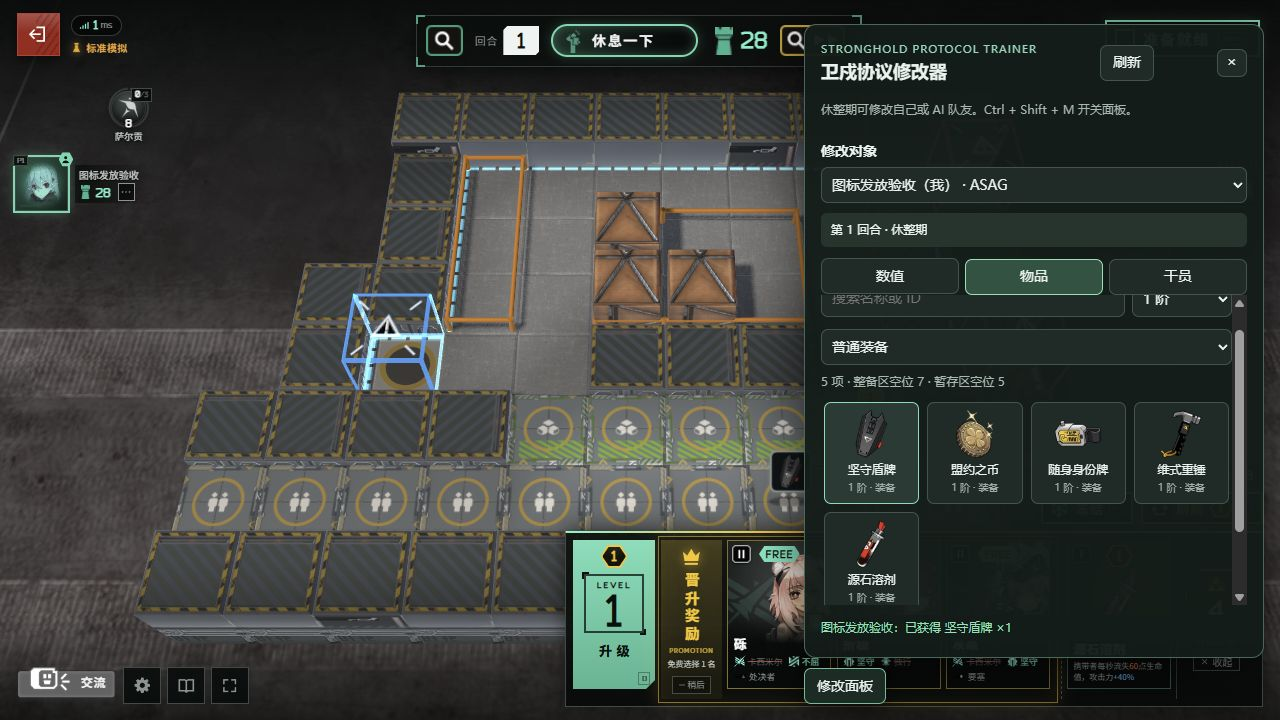
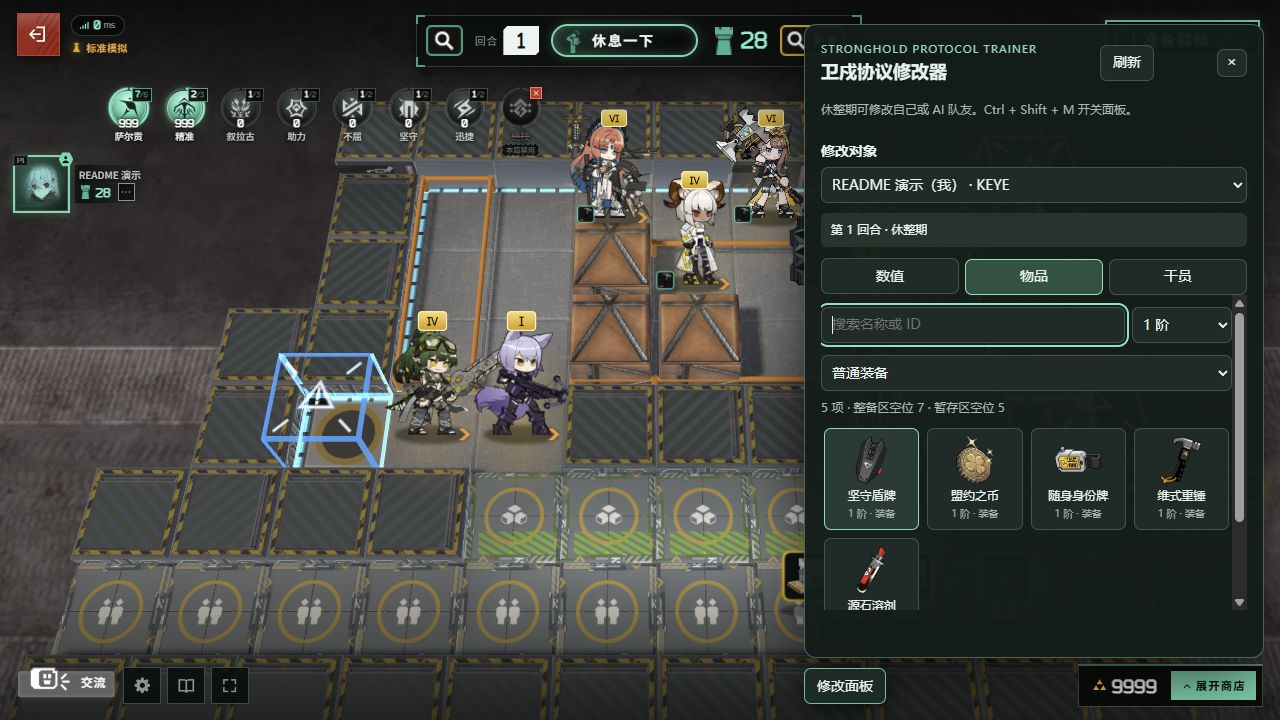
docs: add illustrated setup and real trainer showcases

diff --git a/README.md b/README.md
@@ -1,70 +1,231 @@
 # Stronghold Protocol Trainer｜卫戍协议本地修改器
 
-为 [卫戍协议：盟约 / Stronghold Protocol](https://github.com/sganggs/Stronghold-Protocol) 制作的独立本地修改器。输入本体目录即可安装，用图标列表免费获得物品和本局未被禁用的干员。
+**想试一套成型阵容，又不想反复刷商店？** 给 [卫戍协议：盟约 / Stronghold Protocol](https://github.com/sganggs/Stronghold-Protocol) 加一个本地修改面板：设置金币、调整盟约层数，点击图标获得物品和本局可用干员。
 
-[下载安装包](https://github.com/Doya16/Stronghold-Protocol-Trainer/releases/latest) · [反馈问题](https://github.com/Doya16/Stronghold-Protocol-Trainer/issues) · [自动化测试](https://github.com/Doya16/Stronghold-Protocol-Trainer/actions)
+[下载安装包](https://github.com/Doya16/Stronghold-Protocol-Trainer/releases/latest) · [图文安装教程](#install) · [功能实机展示](#features) · [网上阵容参考](#community) · [反馈问题](https://github.com/Doya16/Stronghold-Protocol-Trainer/issues)
 
-**非官方同人扩展，仅供本地测试及个人非商业娱乐。游戏素材版权归鹰角网络 / Yostar 及相应权利人。** 本项目不打包本体与游戏素材，声明见 [NOTICE.md](NOTICE.md)。
+![本地演示：8 名干员已部署，萨尔贡与精准均为 999 层，当前金币 9999](docs/trainer-showcase.jpg)
 
-## 功能
+*本地实机演示：8 名干员已部署，萨尔贡与精准均设为 999 层，金币为 9999。这是使用修改器提前搭建的效果展示局，不是正常运营通关记录。*
 
-- 设置当前金币、增加 100 / 1000 金币。
-- 设置可叠层盟约的层数，范围 0–999；禁用盟约不可修改。
-- 物品图标列表：点击获得一件，支持名称 / ID / 描述搜索、阶位和类型筛选。包含普通装备、强化装备、道具。
-- 干员图标列表：按**当前对局**过滤被 ban 的干员，点击获得一名初始干员；不受商店等级限制。
-- 使用游戏原有获得流程，保留获得效果、自动合成、干员精锐化及共享卡池计数；金币不会因发放而扣除。
-- 可选择自己或本机 AI 队友。仅休整期、存活且未准备的玩家可操作。
-- 独立浏览器窗口；关闭时停止本次服务并清除本次浏览器配置、缓存及临时数据。
-- 安装 / 启用、停用、卸载。扩展存放于独立目录，不修改本体源文件。
+**非官方同人扩展，仅供本地测试及个人非商业娱乐。禁止利用游戏素材盈利。** 游戏素材版权归鹰角网络 / Yostar 及相应权利人；本项目不包含本体和素材包，声明见 [NOTICE.md](NOTICE.md)。
 
-![物品列表与获得结果](docs/trainer-items.jpg)
+| 可以做什么 | 怎么操作 |
+| --- | --- |
+| 设置金币 | 输入 0–99999，或点击 +100 / +1000 |
+| 调整盟约叠层 | 选择本局允许的盟约，设置 0–999 层 |
+| 免费获得物品 | 搜索、筛选后点击图标，每次获得一件 |
+| 免费获得干员 | 列表自动排除本局被 ban 的干员，每次获得一名 |
+| 修改自己 / AI 队友 | 在“修改对象”下拉框切换 |
+| 一键启动与关闭 | 安装后使用本体目录内的专用快捷方式 |
 
-![本局可获得干员列表](docs/trainer-operators.jpg)
+<a id="install"></a>
+## 图文安装教程
 
-## 快速开始（Windows）
+### 第 1 步：准备本体和修改器
 
-1. 先下载本体 **v0.1.3 完整包**，按其 README 完成快速开始，确认原版能启动。
-2. 安装 **Node.js 22 或 24**，并准备 Chrome 或 Edge。本体自带 `runtime/node.exe` 时也可使用。
-3. 从本仓库 [Releases](https://github.com/Doya16/Stronghold-Protocol-Trainer/releases/latest) 下载 `Stronghold-Protocol-Trainer-v0.2.0-win-x64.zip`，完整解压。
-4. 双击 `Stronghold-Protocol-Trainer-Setup.exe`，输入或浏览选择**本体根目录**，其中应有 `package.json`、`server`、`public` 等。
-5. 点击 **安装 / 启用**，再点击 **启动游戏**。以后直接双击本体目录里的 **卫戍协议本地修改器 - 启动.lnk** 即可。
-6. 开局进入休整期后，点击右下角“修改面板”，或按 **Ctrl + Shift + M**。先确认修改对象，再选择数值 / 物品 / 干员。
+| 需要准备 | 下载 / 检查方式 |
+| --- | --- |
+| Windows x64 | 当前图形安装器支持的系统 |
+| 本体 **v0.1.3 完整包** | [本体 v0.1.3 发布页](https://github.com/sganggs/Stronghold-Protocol/releases/tag/v0.1.3)，下载 `Stronghold-Protocol-v0.1.3.zip` |
+| Node.js **22 或 24** | [Node.js 官方下载](https://nodejs.org/zh-cn/download)；本体目录已有 `runtime/node.exe` 且版本符合要求时也可使用 |
+| Chrome 或 Edge | 用于启动独立游戏窗口 |
+| 修改器安装包 | [修改器 Releases](https://github.com/Doya16/Stronghold-Protocol-Trainer/releases/latest)，下载 `Stronghold-Protocol-Trainer-v0.2.0-win-x64.zip` |
 
-![安装器](docs/installer.png)
+打开修改器发布页，找到页面下方 **Assets**，选择名称以 **`win-x64.zip`** 结尾的附件。`Source code (zip)` 和 `Source code (tar.gz)` 是开发用源码，不是可以双击安装的成品。
 
-当前支持 Windows x64、本体 v0.1.3。其他本体版本会提示不兼容，以免将修改写入不同结构的游戏状态。安装器不自动下载本体、依赖或素材；缺失时会指出需要先完成的步骤。不需要管理员权限，但本体目录必须可写。
+<details>
+<summary>查看下载位置截图（Assets 在页面底部）</summary>
 
-## 游戏规则与限制
+![GitHub 发布页：下载 Assets 中的 win-x64.zip](docs/step-01-download.jpg)
 
-- 图标每次点击发放**一件**。优先放入整备区，满时使用暂存区；两处全满且无法合成时拒绝发放并提示，不会静默丢失这次请求的物品。
-- 暂存区仍遵循本体的清理规则；已有同类装备或干员可能立即自动合成，因此格子数量不一定增加。
-- 干员列表只列出本局可用的常规初始干员，不包含召唤物、隐藏 / DIY 干员和直接精锐形态。连续获得会按原规则精锐化。卡池耗尽时按本体效果赠送的规则获得，不虚增可返还的卡池份数。
-- 设置盟约层数不会自动满足阵容激活条件，也不会补发历史叠层奖励。
-- 本体回合收入、装备使用条件和上限保持原规则。点过“准备就绪”后，先取消准备再修改。
-- 服务只监听 `127.0.0.1`，面板用于本机游戏，不用于加入他人服务器或对外开服。
-- 当前局、代号和浏览器设置均为临时内容，关闭后不保留存档。
+</details>
 
-## 更新、停用与卸载
+### 第 2 步：完整解压，确认本体能运行
 
-更新前先结束当前对局并关闭修改器游戏，再运行新版安装器，选择同一本体目录后点击“安装 / 启用”。安装器会阻止覆盖正在运行的扩展。
+把两个 ZIP 分别完整解压到普通文件夹；不要直接在压缩包预览里运行 EXE。建议使用短路径、可写目录，例如 `D:\Games\Stronghold-Protocol`，避免放在 OneDrive 同步目录中。
 
-“停用”会禁止修改器入口启动；再次“安装 / 启用”即可恢复。原本体的启动方式始终可用，原版入口不会加载本扩展。请注意区分原版快捷方式和修改器快捷方式。
+先阅读**本体自己的 `README.md` → 快速开始 → 整合包**，完成 Node.js 环境准备，并通过本体的 `scripts\start-windows.bat` 确认原版能打开。完整包已包含本体依赖与素材；修改器不会替你补下载这些内容。
 
-“卸载扩展”移除 `sp-local-tools` 目录和属于本扩展的两枚快捷方式，保留本体文件。若目录里有用户额外存放的文件，会保留并要求先移出，不直接删除。
+**安装器要选择的是包含 `package.json` 的那一层。** 如果解压后套了两层同名文件夹，请继续进入内层。
 
-正常关闭游戏窗口会清理 `sp-local-tools/runtime-data`。需要手动关闭时可使用 **卫戍协议本地修改器 - 关闭并清理.lnk**。强制断电等异常退出留下的临时目录会在下次启动时清理。这里的清理范围是本扩展管理的进程和临时目录，不包含 Windows 自身日志、系统预取等操作系统记录。
+```text
+D:\Games\Stronghold-Protocol\       ← 安装器应填写这一层
+├─ package.json
+├─ README.md
+├─ server\
+├─ public\
+├─ data\
+├─ node_modules\
+└─ scripts\
+
+D:\Downloads\Stronghold-Protocol-Trainer-v0.2.0-win-x64\
+└─ Stronghold-Protocol-Trainer-Setup.exe   ← 双击这个安装器
+```
+
+### 第 3 步：选目录，安装 / 启用
+
+1. 关闭之前用于检查的游戏和服务窗口。
+2. 双击 **`Stronghold-Protocol-Trainer-Setup.exe`**。
+3. 粘贴本体根目录，或点 **浏览…** 选择它。下图路径是示例，请换成你自己的实际路径。
+4. 点击 **安装 / 启用**，等待下方状态区提示成功，再点击 **启动游戏**。
+
+![安装器已填写本体根目录，下方依次为安装启用、启动游戏、停用和卸载](docs/step-03-installer.png)
+
+安装成功后，本体目录中会新增：
+
+```text
+sp-local-tools\                         ← 修改器文件
+卫戍协议本地修改器 - 启动.lnk            ← 以后双击它进入
+卫戍协议本地修改器 - 关闭并清理.lnk      ← 手动结束本次游戏并清理
+```
+
+无需管理员权限，但目录必须可写。安装器会检查本体版本、Node.js、浏览器和必要文件；提示缺失时，按提示补齐后重新安装即可。
+
+### 第 4 步：从修改器入口打开游戏
+
+第一次可直接点安装器的 **启动游戏**；以后双击本体目录里的 **卫戍协议本地修改器 - 启动** 快捷方式。
+
+看到下图登录页后，输入博士代号，点击 **开始**。页面右下角出现“修改面板”，说明这次加载了扩展。
+
+![启动成功：输入博士代号，右下角可见修改面板入口](docs/step-04-login.jpg)
+
+### 第 5 步：开局，进入休整期
+
+初次体验可以选择 **独立模拟 → 标准模拟 → 开始独立模拟**。然后依次点击 **开始模拟 → 准备就绪 → 确认选择**，等画面顶部进入“休息一下”。
+
+![选择独立模拟与标准难度，点击开始独立模拟](docs/step-05-solo.jpg)
+
+也可以使用同盟模拟添加 AI 队友。**本修改器入口仅监听本机 `127.0.0.1`**；本体的远程 / 局域网多人功能不等于本修改器提供远程修改能力。
+
+### 第 6 步：打开面板并确认修改对象
+
+点击右下角 **修改面板**，或按 **Ctrl + Shift + M**。确认上方状态为“第 … 回合 · 休整期”，并在“修改对象”中选中自己或目标 AI，再使用下面三个页签。
+
+| 页签 | 最快上手方式 | 成功后看哪里 |
+| --- | --- | --- |
+| 数值 | 填写金币 → 设置金币；选择盟约 → 设为 999 层 | 面板底部成功提示、游戏资金和盟约栏 |
+| 物品 | 筛选类型 / 阶位 → 点击物品图标 | 成功提示、整备区或暂存区 |
+| 干员 | 搜索名字 → 点击干员头像 | 成功提示、整备区；已凑齐时会自动精锐化 |
+
+准备就绪、战斗中或玩家已淘汰时不能修改。先取消准备，或等待下一轮休整期。
+
+<a id="features"></a>
+## 功能实机展示
+
+以下截图来自 **本体 v0.1.3 + 修改器 v0.2.0** 的真实本地演示对局。截图中的数值、图标和成功提示均由游戏与修改器实际显示。
+
+### 金币：即时设置，可继续正常消费
+
+在“数值”页输入目标金额，点 **设置金币**；也可使用 **+100 金币 / +1000 金币**。资金会同步到游戏界面，之后购买、刷新和回合收入继续按原规则结算。
+
+<details>
+<summary>查看金币设置截图：10000 → 9999</summary>
+
+![数值面板：设置金币后显示 10000 到 9999 的成功提示](docs/trainer-values.jpg)
+
+</details>
+
+### 盟约：一键 999 层，游戏本身同步生效
+
+选择盟约后点击 **设为 999 层**。下图中，面板底部显示“萨尔贡层数 8 → 999”，左上方**游戏自己的盟约栏也变为 999**。
+
+![实际点击后，萨尔贡由 8 层变为 999 层，并同步到游戏盟约栏](docs/trainer-999-layers.jpg)
+
+<details>
+<summary>查看修改前与游戏原生盟约详情</summary>
+
+修改前：萨尔贡已激活，当前为 8 层。
+
+![修改前：游戏与面板均显示萨尔贡 8 层](docs/trainer-before.jpg)
+
+修改后：关闭修改面板，点游戏内“萨尔贡”图标，原生详情显示“层数 999”“已激活 · 2 阶”和对应当前效果。
+
+![游戏原生盟约详情：萨尔贡 999 层及当前效果](docs/trainer-bond-detail.jpg)
+
+</details>
+
+**层数和激活条件是两回事。** 设置 999 层不会自动把阵容补齐，也不会补发过去逐层叠加的奖励。请先让对应盟约达到激活条件，再看实际效果。
+
+页首的展示阵容为：艾丝黛尔、泡泡、百炼嘉维尔、佩佩、普罗旺斯、卡涅利安、缇缇、异客。通过正常获得 / 合成流程准备干员，再部署到合法格子、配发装备；演示的是提前搭建阵容与修改层数，不代表自动摆阵或一键通关功能。
+
+### 物品：点击图标获得一件
+
+切到“物品”，按名称、ID 或描述搜索，或使用**阶位 + 普通装备 / 强化装备 / 道具**筛选。截图选择“1 阶 + 普通装备”，点击坚守盾牌后，底部显示“已获得 坚守盾牌 ×1”。
+
+![物品筛选与实际获得坚守盾牌的成功提示](docs/trainer-items.jpg)
+
+本体 v0.1.3 的列表共 115 项物品。每次点击发放一件，不扣金币；获得效果和自动合成仍由本体处理。装备拿到后仍要按游戏方式配发给干员，道具也要满足其使用条件。
+
+### 干员：只显示本局未被 ban 的可获得干员
+
+切到“干员”，搜索名字或筛选阶位，点击头像即可获得一名初始干员，不受当前商店等级限制。截图这局显示 **81 项，已排除 31 名禁用干员**；这是该演示局的数量，不是每局固定值。
+
+![干员列表过滤本局禁用项，点击后已获得艾丝黛尔](docs/trainer-operators.jpg)
+
+凑齐同名干员会按本体规则自动精锐化，可能出现晋升奖励。列表不直接发放精锐形态、召唤物或隐藏 / DIY 干员。获得后请自行从整备区拖到战场并选择朝向。
+
+<a id="community"></a>
+## 网上玩家的成型与满层参考
+
+下面是**社区玩家在官方游戏中的阵容记录**，用于找搭配灵感；不是本修改器的测试记录。帖子所处活动期与本地复刻版本可能不同，具体干员、ban 位、装备和效果以你当前对局为准。
+
+### 谢拉格 999 层成型记录
+
+[![社区参考：谢拉格 999 层与成型阵容记录，点击查看原帖](https://img2-tc.tapimg.com/moment/etag/FpyPEiZSqKOfCeI-PIigcZykTnDs_20251210213800.jpg/_tap_ugc.jpg)](https://www.taptap.cn/moment/747932824320870144)
+
+来源：[《卫戍协议绝境稳定谢拉格999层》](https://www.taptap.cn/moment/747932824320870144)，TapTap **最后的光**，2025-12-10。图中可见谢拉格 999 层和该局阵容。原帖介绍三谢拉格搭配、冰冻与辅助的思路，也说明了地图限制；可对照原帖研究搭配，不把作者的成功率描述当作本项目保证。
+
+### 大炎成员搭配参考
+
+[![社区参考：大炎盟约成员与阵容搭配，点击查看原攻略](https://img2-tc.tapimg.com/moment/etag/Fnm5uyINXVkHLeGYiiSMQ4NQeTau_20260316200715.jpg/_tap_ugc.jpg)](https://www.taptap.cn/moment/782716580197830151)
+
+来源：[《卫戍协议各个盟约个人攻略（无阿戈尔）》](https://www.taptap.cn/moment/782716580197830151)，TapTap **失忆的巴别塔恶灵**，页面标注修改于 03/18（2026 年活动期）。这张图展示大炎成员，不是 999 层结算；原帖还包含其他核心盟约的阵容思路。
+
+更多满层截图：[《休露丝达成10满层盟约》](https://www.sina.cn/news/detail/5279638361215058.html)，**液電樂園**，2026-03-23。原帖展示多个 999 层盟约，其中助力标为 490，并非所有盟约都满层。该站图片有防盗链，请在来源页查看。
+
+网络配图使用来源站外链，保留原图内容；加载失败时可点标题进入原帖。外链图片及原作者内容不属于本项目 GPL 授权范围，详细来源与本地截图说明见 [截图来源](docs/SCREENSHOTS.md)。
+
+## 游戏规则与边界
+
+- 每次图标点击发放一件，优先进入整备区，满时进入暂存区。两处全满且无法合成时会拒绝并提示。
+- 已有同类物品或干员可能立即自动合成，所以格子数量不一定增加；暂存区仍遵循本体清理规则。
+- 共享卡池计数与本体获得流程保持一致；卡池耗尽时按本体效果赠送规则获得，不虚增可返还的份数。
+- 禁用盟约不能设置层数；干员列表随对局重新过滤。换局或换回合后，旧请求会被拒绝。
+- 修改只属于当前局。**关闭专用游戏窗口会结束本次服务并清理临时浏览器数据，不保留当前局存档。**
+
+## 关闭、更新、停用与卸载
+
+| 你想做什么 | 操作 | 结果 |
+| --- | --- | --- |
+| 正常退出 | 关闭专用游戏窗口 | 结束本次服务和浏览器进程，清理临时目录 |
+| 手动结束并清理 | 双击“卫戍协议本地修改器 - 关闭并清理” | 清理本扩展管理的本次会话 |
+| 更新修改器 | 先关闭游戏，新版安装器选择同一本体目录 → 安装 / 启用 | 更新独立扩展文件；运行中会阻止覆盖 |
+| 暂时不用 | 安装器选择原目录 → 停用 | 禁止修改器入口启动；再次安装 / 启用即可恢复 |
+| 删除扩展 | 安装器选择原目录 → 卸载扩展 | 移除扩展目录及属于扩展的两枚快捷方式，保留本体 |
+
+扩展存放在 `sp-local-tools` 中，不修改本体源文件。原本体的启动脚本仍可使用；请区分它和修改器专用入口。
+
+清理范围为 `sp-local-tools/runtime-data` 中本次浏览器配置、缓存和临时文件，以及扩展管理的进程。强制断电等异常退出的残留会在下次启动时清理；Windows 自身日志、系统预取等操作系统记录不在清理范围内。卸载时发现扩展目录里有用户额外文件，会保留并提示先移出。
 
 ## 常见问题
 
-**没有物品图标？** 确认使用的是包含素材的本体完整包。图片缺失会用名称首字替代，仍可点击。
+| 问题 | 处理方法 |
+| --- | --- |
+| 双击源码包找不到 EXE | 返回 Releases，下载 `win-x64.zip` 成品安装包 |
+| 安装器说目录不正确 | 选择有 `package.json`、`server`、`public` 的本体根目录，检查是否多套了一层文件夹 |
+| 提示本体版本不兼容 | 当前明确支持 v0.1.3；不要只改版本号绕过检查 |
+| 没有修改面板 | 从“卫戍协议本地修改器 - 启动”进入；原版脚本不加载扩展 |
+| 有按钮但不能修改 | 先确认对象、休整期、存活且未准备；读面板底部提示，再点“刷新” |
+| 提示“对局已变化” | 换局或回合已切换，刷新面板后重新操作 |
+| 改成 999 层但未激活 | 层数不会补齐阵容，请部署足够的对应盟约成员 |
+| 点图标后看不到新卡 | 检查整备区、暂存区及自动合成结果；全满会明确拒绝 |
+| 搜不到某名干员 | 确认筛选条件和本局 ban 位；召唤物、隐藏与精锐形态不会直接列出 |
+| 图片空白或变成文字 | 确认使用带素材的本体完整包；缺图时仍可按名称点击 |
+| 下一轮金币变化了 | 本体的收入结算仍然生效，在新休整期重新设置即可 |
+| 重开游戏找不到上一局 | 这是专用入口的临时会话设计，退出时会结束对局并清理 |
 
-**没有修改面板？** 请从“卫戍协议本地修改器 - 启动”进入；原版入口不加载修改器。
-
-**提示对局已变化？** 当前局或回合已经变化，点击刷新后重试。旧请求不会自动写入新对局。
-
-**金币下一轮变了？** 本体仍会按原有收入规则结算；可在新一轮休整期再设置。
-
-**“休整期可修改”但按钮灰色？** 检查玩家是否已准备、淘汰，以及面板是否提示需要重启新版服务。
+反馈时请附：本体 / 修改器版本、进行到哪一步、面板底部完整提示、相关截图。可在 [Issues](https://github.com/Doya16/Stronghold-Protocol-Trainer/issues) 提交。
 
 ## 开发与测试
 
@@ -77,10 +238,10 @@ powershell -ExecutionPolicy Bypass -File scripts/build.ps1
 pwsh -File scripts/test-installer.ps1 -GameRoot $env:SP_GAME_ROOT
 ```
 
-构建需要 Windows 自带 .NET Framework 4.x 编译器，生成安装器至 `dist/`。`Setup.Console.exe` 与图形安装器使用完全相同的安装逻辑，供自动化验收；不需要将它分发给普通玩家。`scripts/release.ps1` 生成可分享 ZIP 和 SHA256 校验文件。
+构建需要 Windows 自带 .NET Framework 4.x 编译器，生成安装器至 `dist/`。`Setup.Console.exe` 与图形安装器使用相同安装逻辑，供自动化验收；普通玩家无需使用。`scripts/release.ps1` 生成含文档的 ZIP 和 SHA256 校验文件。
 
-测试包括真实 WebSocket 登录、建房、开局、修改、购买和装备操作；禁用项、过期对局、背包容量、正常合成、AI 隔离和接口访问控制；以及中文路径的安装、升级、启用、卸载。详细验收见 [docs/TESTING.md](docs/TESTING.md)。
+已验证真实 WebSocket 登录、建房、开局、修改、购买和装备；115 项物品发放；禁用项、过期对局、容量、合成、AI 隔离与访问控制；中文路径安装、更新、启用、卸载及关闭清理。[v0.2.0 的 Node.js 22 / 24 测试与 Windows 构建均已通过](https://github.com/Doya16/Stronghold-Protocol-Trainer/actions/runs/37400324038)。详细范围见 [测试记录](docs/TESTING.md)，最新状态见 [Actions](https://github.com/Doya16/Stronghold-Protocol-Trainer/actions)。
 
 ## 许可与致谢
 
-扩展代码采用 **GPL-3.0-or-later**，见 [LICENSE](LICENSE)。感谢 [sganggs/Stronghold-Protocol](https://github.com/sganggs/Stronghold-Protocol) 作者及测试贡献者。本体自己的代码、依赖、游戏素材分别保留原有许可与声明；本项目不代表本体作者或官方。
+扩展代码采用 **GPL-3.0-or-later**，见 [LICENSE](LICENSE)。感谢 [sganggs/Stronghold-Protocol](https://github.com/sganggs/Stronghold-Protocol) 作者及测试贡献者，也感谢分享阵容思路的社区玩家。本体代码、依赖、游戏素材和第三方截图分别保留原有许可与权利声明；本项目不代表本体作者、配图作者或官方。

diff --git a/docs/SCREENSHOTS.md b/docs/SCREENSHOTS.md
@@ -1,0 +1,36 @@
+# 截图来源与说明
+
+## 本地实机截图
+
+拍摄环境：Windows，Stronghold Protocol v0.1.3，Stronghold Protocol Trainer v0.2.0。使用独立的本机演示服务，不连接他人的游戏或服务器。
+
+| 文件 | 内容 |
+| --- | --- |
+| `step-01-download.jpg` | 本项目 v0.2.0 公开发布页，显示安装 ZIP 所在的 Assets |
+| `step-03-installer.png` | 实际 Windows 安装器；路径是拍摄机器的示例路径，截图处于点击安装之前 |
+| `step-04-login.jpg` | 扩展已加载时的本体登录界面 |
+| `step-05-solo.jpg` | 独立模拟、标准难度的模式选择页 |
+| `trainer-showcase.jpg` | 提前准备的八人演示阵容，萨尔贡和精准均为 999 层 |
+| `trainer-before.jpg` | 本地演示局，设置层数前的萨尔贡 8 层 |
+| `trainer-999-layers.jpg` | 实际点击“设为 999 层”之后，面板与游戏同时显示 999 |
+| `trainer-bond-detail.jpg` | 游戏原生萨尔贡详情，显示 999 层、激活状态与效果 |
+| `trainer-values.jpg` | 实际设置金币后，显示 10000 → 9999 |
+| `trainer-items.jpg` | 实际点击坚守盾牌图标后，成功发放一件 |
+| `trainer-operators.jpg` | 当前对局的未禁用干员列表，实际获得艾丝黛尔 |
+| `installer.png` | v0.2.0 发布时保存的空目录安装器界面 |
+
+阵容通过修改器相同的 `applyEdit` 发放流程、游戏原生合成 / 放置 / 配装方法预先搭建；999 层、图标发放和金币设置由可见面板实际操作。未修改截图中的游戏数字、界面文本或成功状态，也未使用生成图伪造游戏画面。这里只展示功能，不宣称该阵容正常运营获得、完成通关或经过最优配队验证。
+
+截图中的游戏美术、角色和文本仍归鹰角网络 / Yostar 及相应权利人所有，不适用扩展代码的 GPL 许可。
+
+## 社区参考
+
+README 使用来源站图片外链，并链接回原帖；没有将第三方原图收入安装包。引用仅用于说明阵容和满层效果，未获原作者对本修改器的授权、认可或背书。
+
+| 作者 / 平台 | 原帖 | 图片用途 |
+| --- | --- | --- |
+| 最后的光 / TapTap | [卫戍协议绝境稳定谢拉格999层](https://www.taptap.cn/moment/747932824320870144)，2025-12-10 | 谢拉格 999 层与该局阵容记录 |
+| 失忆的巴别塔恶灵 / TapTap | [卫戍协议各个盟约个人攻略（无阿戈尔）](https://www.taptap.cn/moment/782716580197830151)，页面标注修改于 03/18，文内讨论 2026 年二期 | 大炎盟约成员图；不作为 999 层结算图 |
+| 液電樂園 / 微博，新浪页面 | [休露丝达成10满层盟约](https://www.sina.cn/news/detail/5279638361215058.html)，2026-03-23 | 仅提供原帖链接；原图有防盗链 |
+
+社区截图来自官方游戏，活动期、干员、规则与本地复刻版本可能不同。原帖的胜率、强度和通关描述属于作者经验，不属于本项目测试结论。外链可能失效，届时可从来源页查看；权利人如希望移除引用，可通过仓库 Issues 联系。

diff --git a/docs/TESTING.md b/docs/TESTING.md
@@ -34,4 +34,10 @@
 
 实际安装到完整本体后，启动器打开独立浏览器和服务，接口版本为 3。运行期间重新安装被阻止；“关闭并清理”返回 0，`runtime-data` 删除，本次启动器 / Node / 浏览器进程和监听端口退出。
 
-本次实际使用的运行时为 Node 24；已配置 Node 22 / 24 的 CI 矩阵，发布到 GitHub 后运行，未宣称本机实测过 Node 22。完整游戏所有策略组合、所有物品的每个战斗效果不属于本次穷举范围。
+本机实际使用的运行时为 Node 24；[GitHub Actions 的 Node 22、Node 24 和 Windows 构建均已通过](https://github.com/Doya16/Stronghold-Protocol-Trainer/actions/runs/37400324038)。完整游戏所有策略组合、所有物品的每个战斗效果不属于本次穷举范围。
+
+## 图文教程补充验收
+
+在独立本地演示对局中预先使用相同发放接口和本体原生合成 / 部署 / 配装流程准备 8 名干员。随后实际点击面板“设为 999 层”，确认萨尔贡由 8 层变为 999 层，游戏盟约栏同步为 999；关闭面板后，游戏原生详情显示“层数 999”“已激活 · 2 阶”和对应效果。精准也通过面板设为 999 层。
+
+实际操作金币 9999 → 10000 → 9999、点击坚守盾牌和艾丝黛尔图标并确认成功提示与容量变化。文档截图与社区图分开标注，来源见 [SCREENSHOTS.md](SCREENSHOTS.md)。这不是正常运营通关测试。
